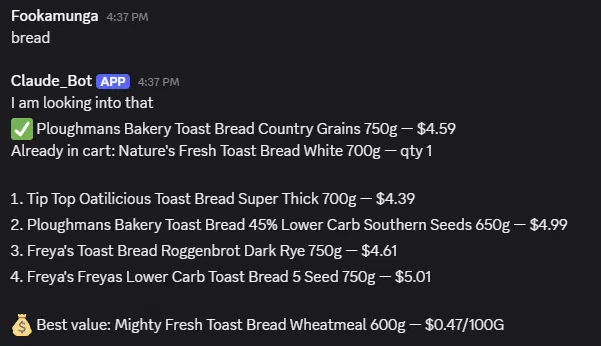
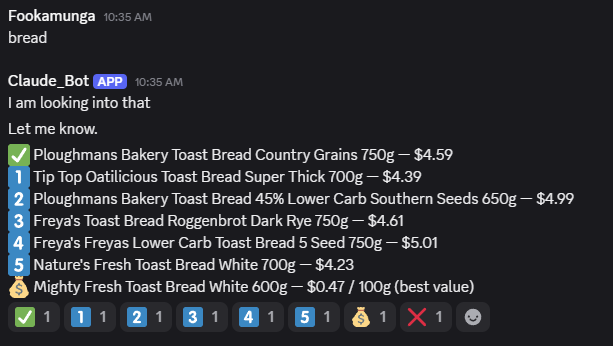
Update README screenshots to the reaction-based UI, note Discord-only emoji
New real screenshots show the corrected reaction rendering (✅ top_pick,
numbered alternatives, 💰 best value, ❌ decline) instead of the old typed-
reply flow. Added a note that the tap-to-react emoji are specific to the
Discord bot configuration -- Claude mobile/desktop gets the same ranking
as plain numbered text with a typed reply instead.

Changed region(s): [[0.0, 0.2023, 0.9584, 0.9827], [0.0, 0.0289, 0.2696, 0.0867], [0.0, 0.0867, 0.0899, 0.1445]]

diff --git a/README.md b/README.md
@@ -110,6 +110,12 @@ nothing marked, since there's no real signal to recommend one over another:
 
 ![Alternatives from a plain search, no purchase history to rank from](docs/alternatives-no-history.png)
 
+**The tap-to-react emoji shown above are a Discord-only interaction** — they
+come from the Discord bot configuration specifically, not from staples-host
+itself. Asking the same question via Claude mobile/desktop gets the
+identical ranking and options as plain numbered text instead; reply with
+the number (or "yes" for the ✅ pick) rather than reacting.
+
 Either way, asking about one item always includes a best-value pick — the
 cheapest price-per-unit option of that type — regardless of which path found
 the recommendation. See "Recipe pricing" below for why a whole recipe/
